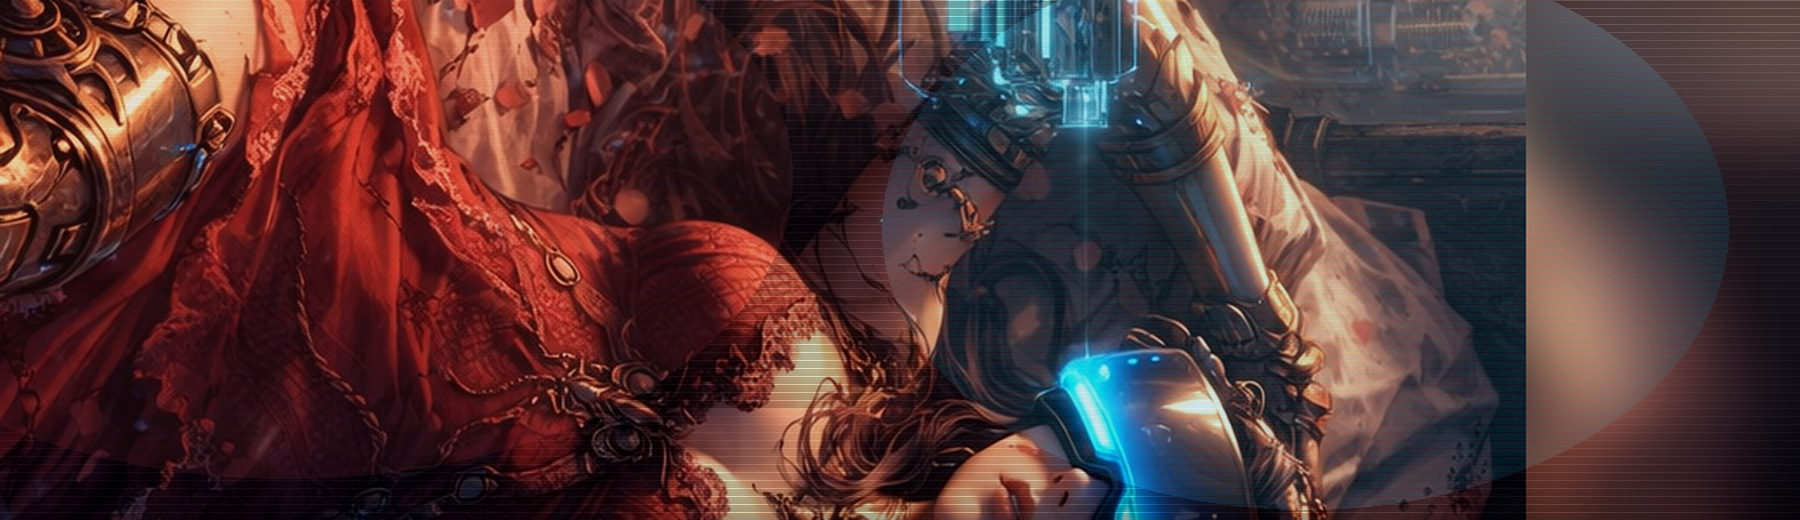
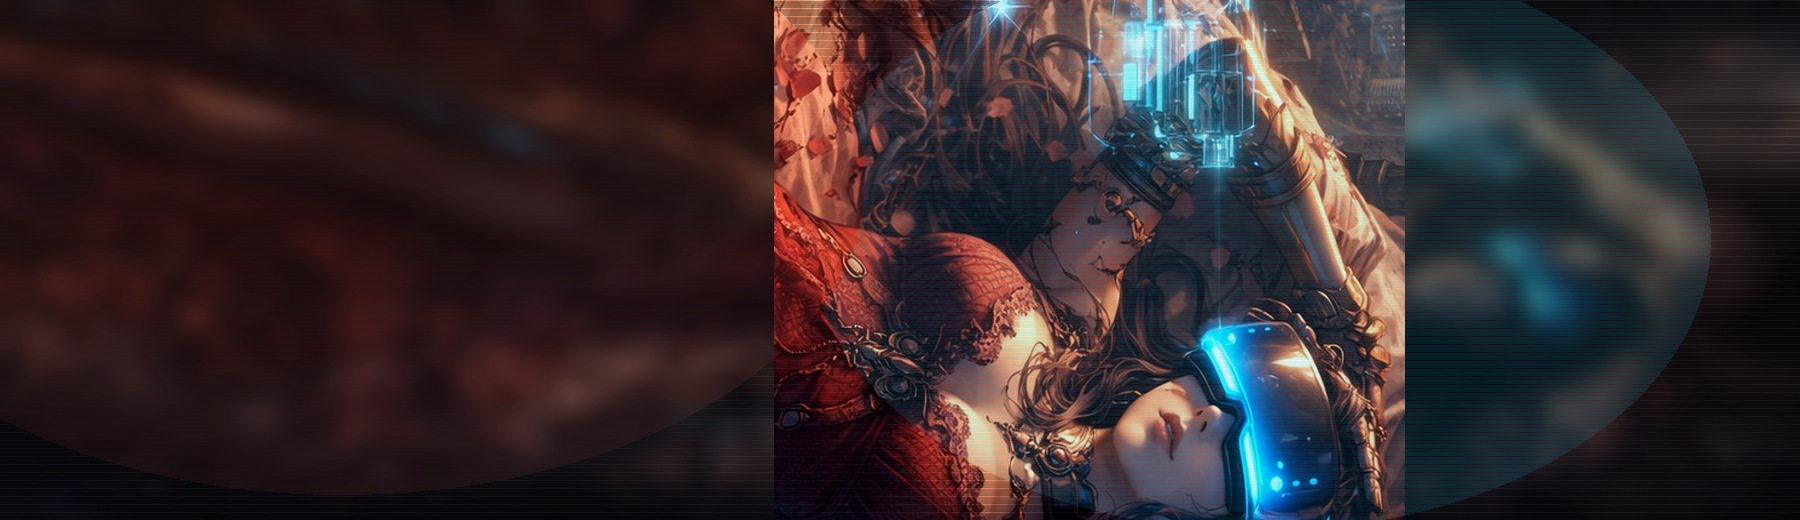
Improve Celestial Atlas v3 readability and hero focus

diff --git a/assets/interfaces/SEVEN_PORTABLE_TERMINAL/index.html b/assets/interfaces/SEVEN_PORTABLE_TERMINAL/index.html
@@ -3,8 +3,8 @@
 <head>
   <meta charset="utf-8">
   <meta name="viewport" content="width=device-width, initial-scale=1">
-  <title>Seven Heaven Cockpit — Celestial Atlas v3 Clean Home</title>
-  <link rel="stylesheet" href="./style.css?v=celestial-atlas-v3-clean-home-1">
+  <title>Seven Heaven Cockpit — Celestial Atlas v3 Readable Hero</title>
+  <link rel="stylesheet" href="./style.css?v=celestial-atlas-v3-readable-hero-1">
 </head>
 
 <body>
@@ -29,7 +29,7 @@
 
     <header class="hero">
       <div class="hero-main">
-        <div class="kicker">SEVEN HEAVEN COCKPIT · CELESTIAL ATLAS V3 · CLEAN HOME · SOLID SHELL V2 · HERO AVATAR LOCKED</div>
+        <div class="kicker">SEVEN HEAVEN COCKPIT · CELESTIAL ATLAS V3 · READABLE HERO · READABLE HERO · SOLID SHELL V2 · HERO AVATAR LOCKED</div>
         <h1>✦ Seven Portable Terminal</h1>
         <p>Pupitre tactile aérien — Seven Boost, Video Cards, Notion Cores, GitHub, Production et Blue Azur.</p>
 
@@ -65,6 +65,7 @@
         <button class="mini-control" onclick="cycleHeroFrame()">🎞 Hero</button>
         <button class="mini-control" onclick="nextBackground()">🛞 Fond</button>
         <button class="mini-control" onclick="randomAtlasBackground()">🎲 Random</button>
+        <button class="mini-control active" id="readabilityShieldBtn" onclick="toggleReadabilityShield()">🛡 Lisibilité</button>
       </div>
       <aside class="intel-panel" aria-live="polite">
         <div class="intel-topline">
@@ -1873,6 +1874,25 @@ Le navigateur ne peut pas afficher de façon fiable l’IP locale Ethernet pour 
     }
 
     forceCleanHomeBoot();
+  
+    function toggleReadabilityShield() {
+      document.body.classList.toggle("readability-off");
+      const on = !document.body.classList.contains("readability-off");
+      const btn = document.getElementById("readabilityShieldBtn");
+      if (btn) btn.classList.toggle("active", on);
+      try { localStorage.setItem("seven-readability-shield", on ? "1" : "0"); } catch (e) {}
+      setStatus(on ? "Bouclier lisibilité : ON" : "Bouclier lisibilité : OFF");
+    }
+
+    function bootReadabilityShield() {
+      let enabled = "1";
+      try { enabled = localStorage.getItem("seven-readability-shield") || "1"; } catch (e) {}
+      document.body.classList.toggle("readability-off", enabled !== "1");
+      const btn = document.getElementById("readabilityShieldBtn");
+      if (btn) btn.classList.toggle("active", enabled === "1");
+    }
+
+    bootReadabilityShield();
   </script>
 </body>
 </html>
